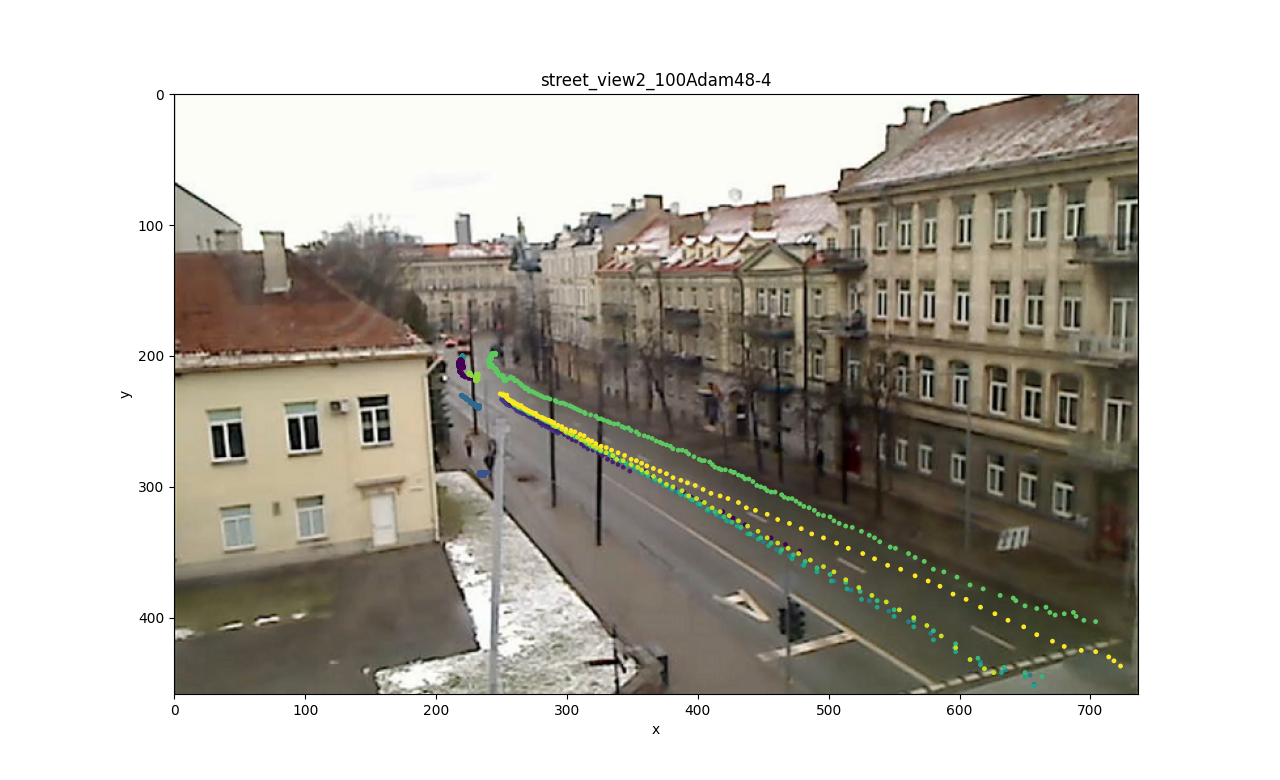
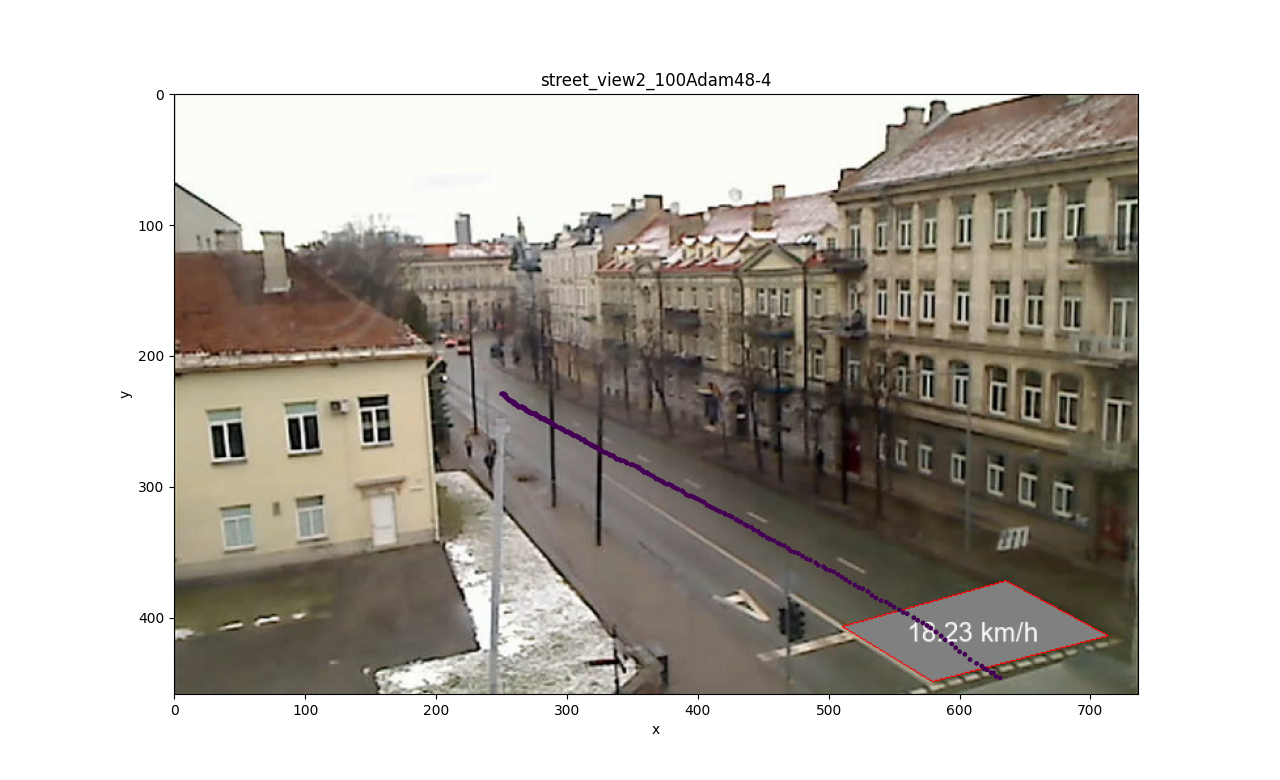
calculating speed in sector 1

diff --git a/det_plot_file copy.py b/det_plot_file copy.py
@@ -1,12 +1,14 @@
 import csv
 import pandas as pd
 import matplotlib.pyplot as plt
-from PIL import Image
+from PIL import Image, ImageDraw, ImageFont
+from shapely.geometry import Point, Polygon
 
 # Data parameteres
-everynth = 3 # show every other point (f.e. 3 - show every 3rd point)
+everynth = 1 # show every other point (f.e. 3 - show every 3rd point)
 start = 0 # start point
 end = -1 # end point
+objectId = 12 # all objects. For specific object, change 0 to objectid 
 
 # Prerecorded tracking results for ploting
 track_files = [
@@ -45,10 +47,19 @@ def tracks(file, everyth, start, end):
             if len(row) == 0 or index % everyth != 0:  # skip empty rows and select every other member
                 continue
             else:
+                # Sometimes several objects are detected during same time tick. For plotting, we need flatten dimmensions
                 for line in row:
-                    plot_tracks.append(track_format(line))
-                    print(track_format(line))
-            
+                    fline = track_format(line)
+                    
+                    if objectId == 0: # All objects
+                        plot_tracks.append(fline)
+                    else:
+                        if fline[0] == objectId: # Single object by id
+                            plot_tracks.append(fline)
+
+    #for line in plot_tracks:
+        #print(line) 
+
     return plot_tracks
 
 # Define a color mapping function
@@ -77,6 +88,48 @@ def scatter_3d(df, track_file):
 
 def scatter(df, x, y, track_file):
     img = Image.open('_data/_images/scene.png')
+    draw = ImageDraw.Draw(img)
+    width, height = img.size
+
+    # Draw sector for object speed calculations
+    quadrilateral = [(579, 449), (510, 407), (635, 372), (713, 414)]
+    draw.polygon(quadrilateral, fill="grey", outline="red")
+
+    # Create a Polygon object from the quadrilateral coordinates
+    polygon = Polygon(quadrilateral)
+
+    # Check if each point in the DataFrame is inside the sector
+    sp = []
+    for index, row in df.iterrows():
+        point = Point(row["x"], row["y"])
+        if polygon.contains(point):
+            sp.append([int(row['x']), int(row['y']), row['time']])
+
+    # Calculate speed
+    distance = 4 # Distance is taken based on maps.lt
+    time = round(sp[-1][2] - sp[0][2], 2)
+    speed = round(distance/time * 3.6, 2)
+    print(speed, "km/h")
+
+    # Set the font and size
+    font = ImageFont.truetype("arial.ttf", 20)
+    # Set the text to be drawn
+    text = f"{str(speed)} km/h"
+    # Draw the text on the image
+    draw.text((560, 400), text, font=font)
+
+    # # Draw start and end sectors
+    # start_point_1 = (579, 449)
+    # start_point_2 = (713, 414)
+
+    # end_point_1 = (510, 407)
+    # end_point_2 = (635, 372)
+
+    # draw.line((start_point_1, start_point_2), fill=(255, 255, 0), width=4)
+    # draw.line((end_point_1, end_point_2), fill=(255, 255, 0), width=4)
+    # # EOF Draw start and end sectors
+
+
     # Calculate the new size based on the percentage
     percent = 100
     width, height = img.size
@@ -106,7 +159,7 @@ def draw_plots(track_file):
         columns = ["id", "type", "x", "y", "time"]
     )
 
-    scatter_3d(df, track_file)
+    #scatter_3d(df, track_file)
     scatter(df, 'x', 'y', track_file)
 
     plt.show()
